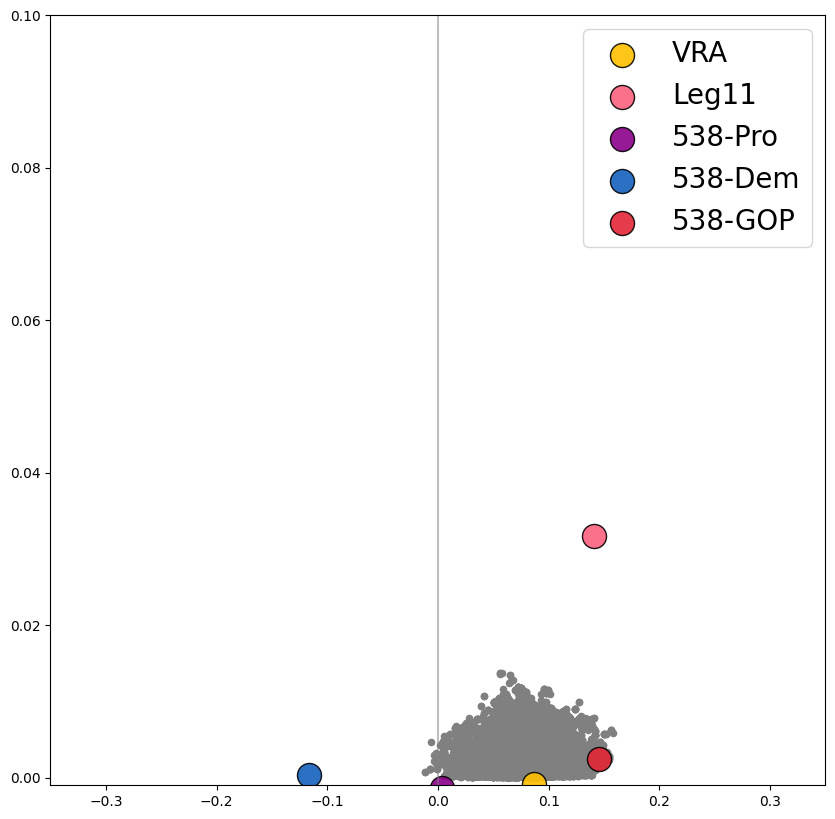
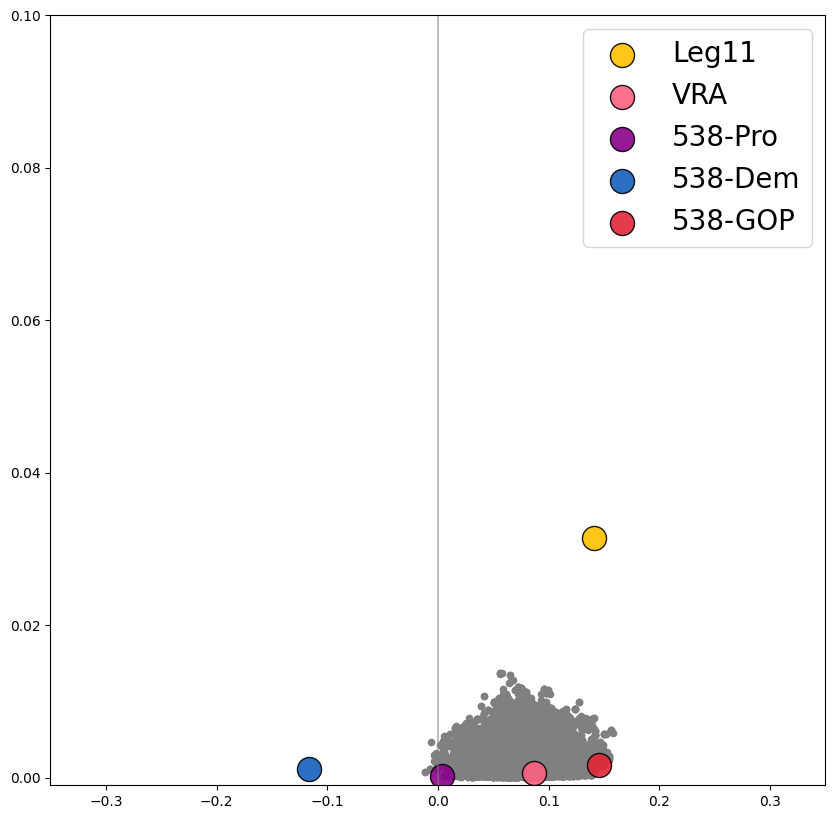
small TX fixes

diff --git a/chain_functions.py b/chain_functions.py
@@ -210,7 +210,7 @@ states = {
         "early": ["PRES12", "SEN12", "SEN14", "GOV14", "AG14"],
         "POP_COL": "TOTPOP_x",
         # "ENACTED_COL": ["CD", "Seed_Demo", "538_Dem", "538_Comp_1", "538_Propor", "Seed3"],
-        "ENACTED_COL": ["CD", "CONG_2010"] + ["TX_" + col for col in plan_names_538],
+        "ENACTED_COL": ["CONG_2010", "CD"] + ["TX_" + col for col in plan_names_538],
     },
     # 'VT': {'elections': {
     #         'PRES16': ['PRES16D', 'PRES16R'],

diff --git a/make_scatters.py b/make_scatters.py
@@ -41,7 +41,7 @@ def main():
             mean = plan_mvs.loc[plan]['disprop_mean']
             var = plan_mvs.loc[plan]['disprop_var']
             x_jit, y_jit = make_xy_jitter()
-            plt.scatter(mean, var + y_jit, label=nice_name, color=color, s=300, edgecolors='black', alpha=0.9)
+            plt.scatter(mean, var + 0, label=nice_name, color=color, s=300, edgecolors='black', alpha=0.9)
 
         ax.set_xlim(-0.35, 0.35)
         ax.set_ylim(-0.001, 0.1)
